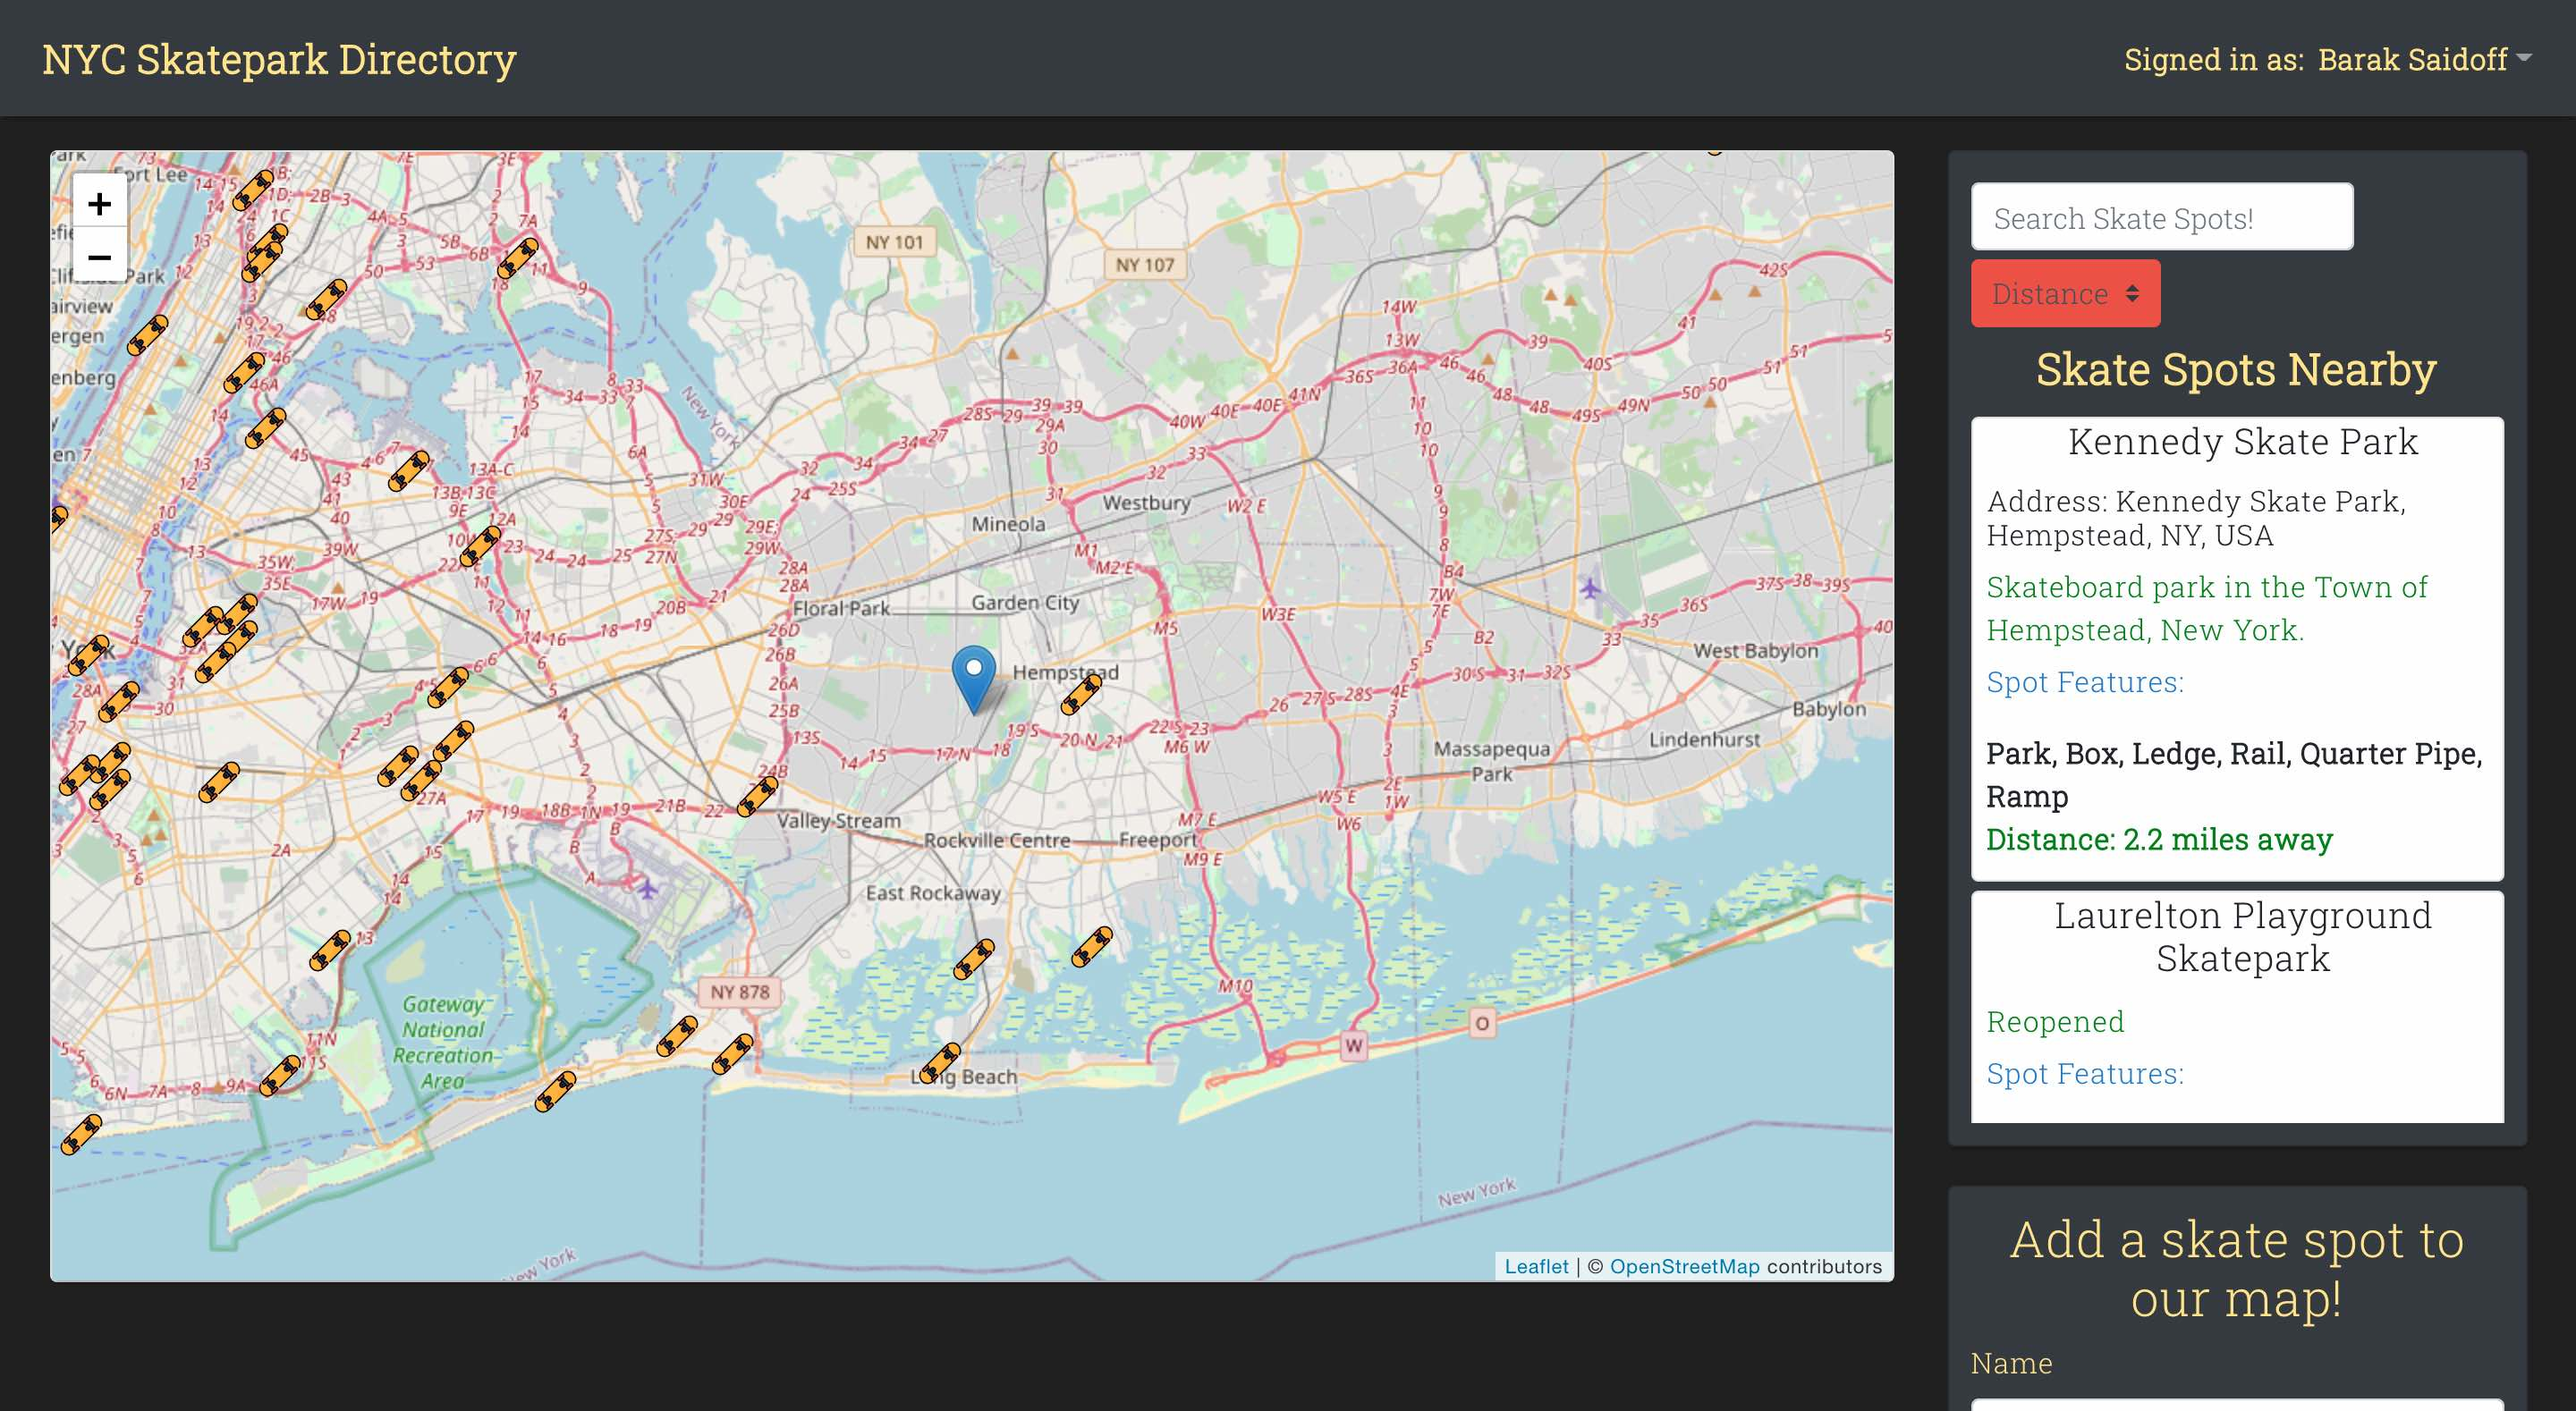
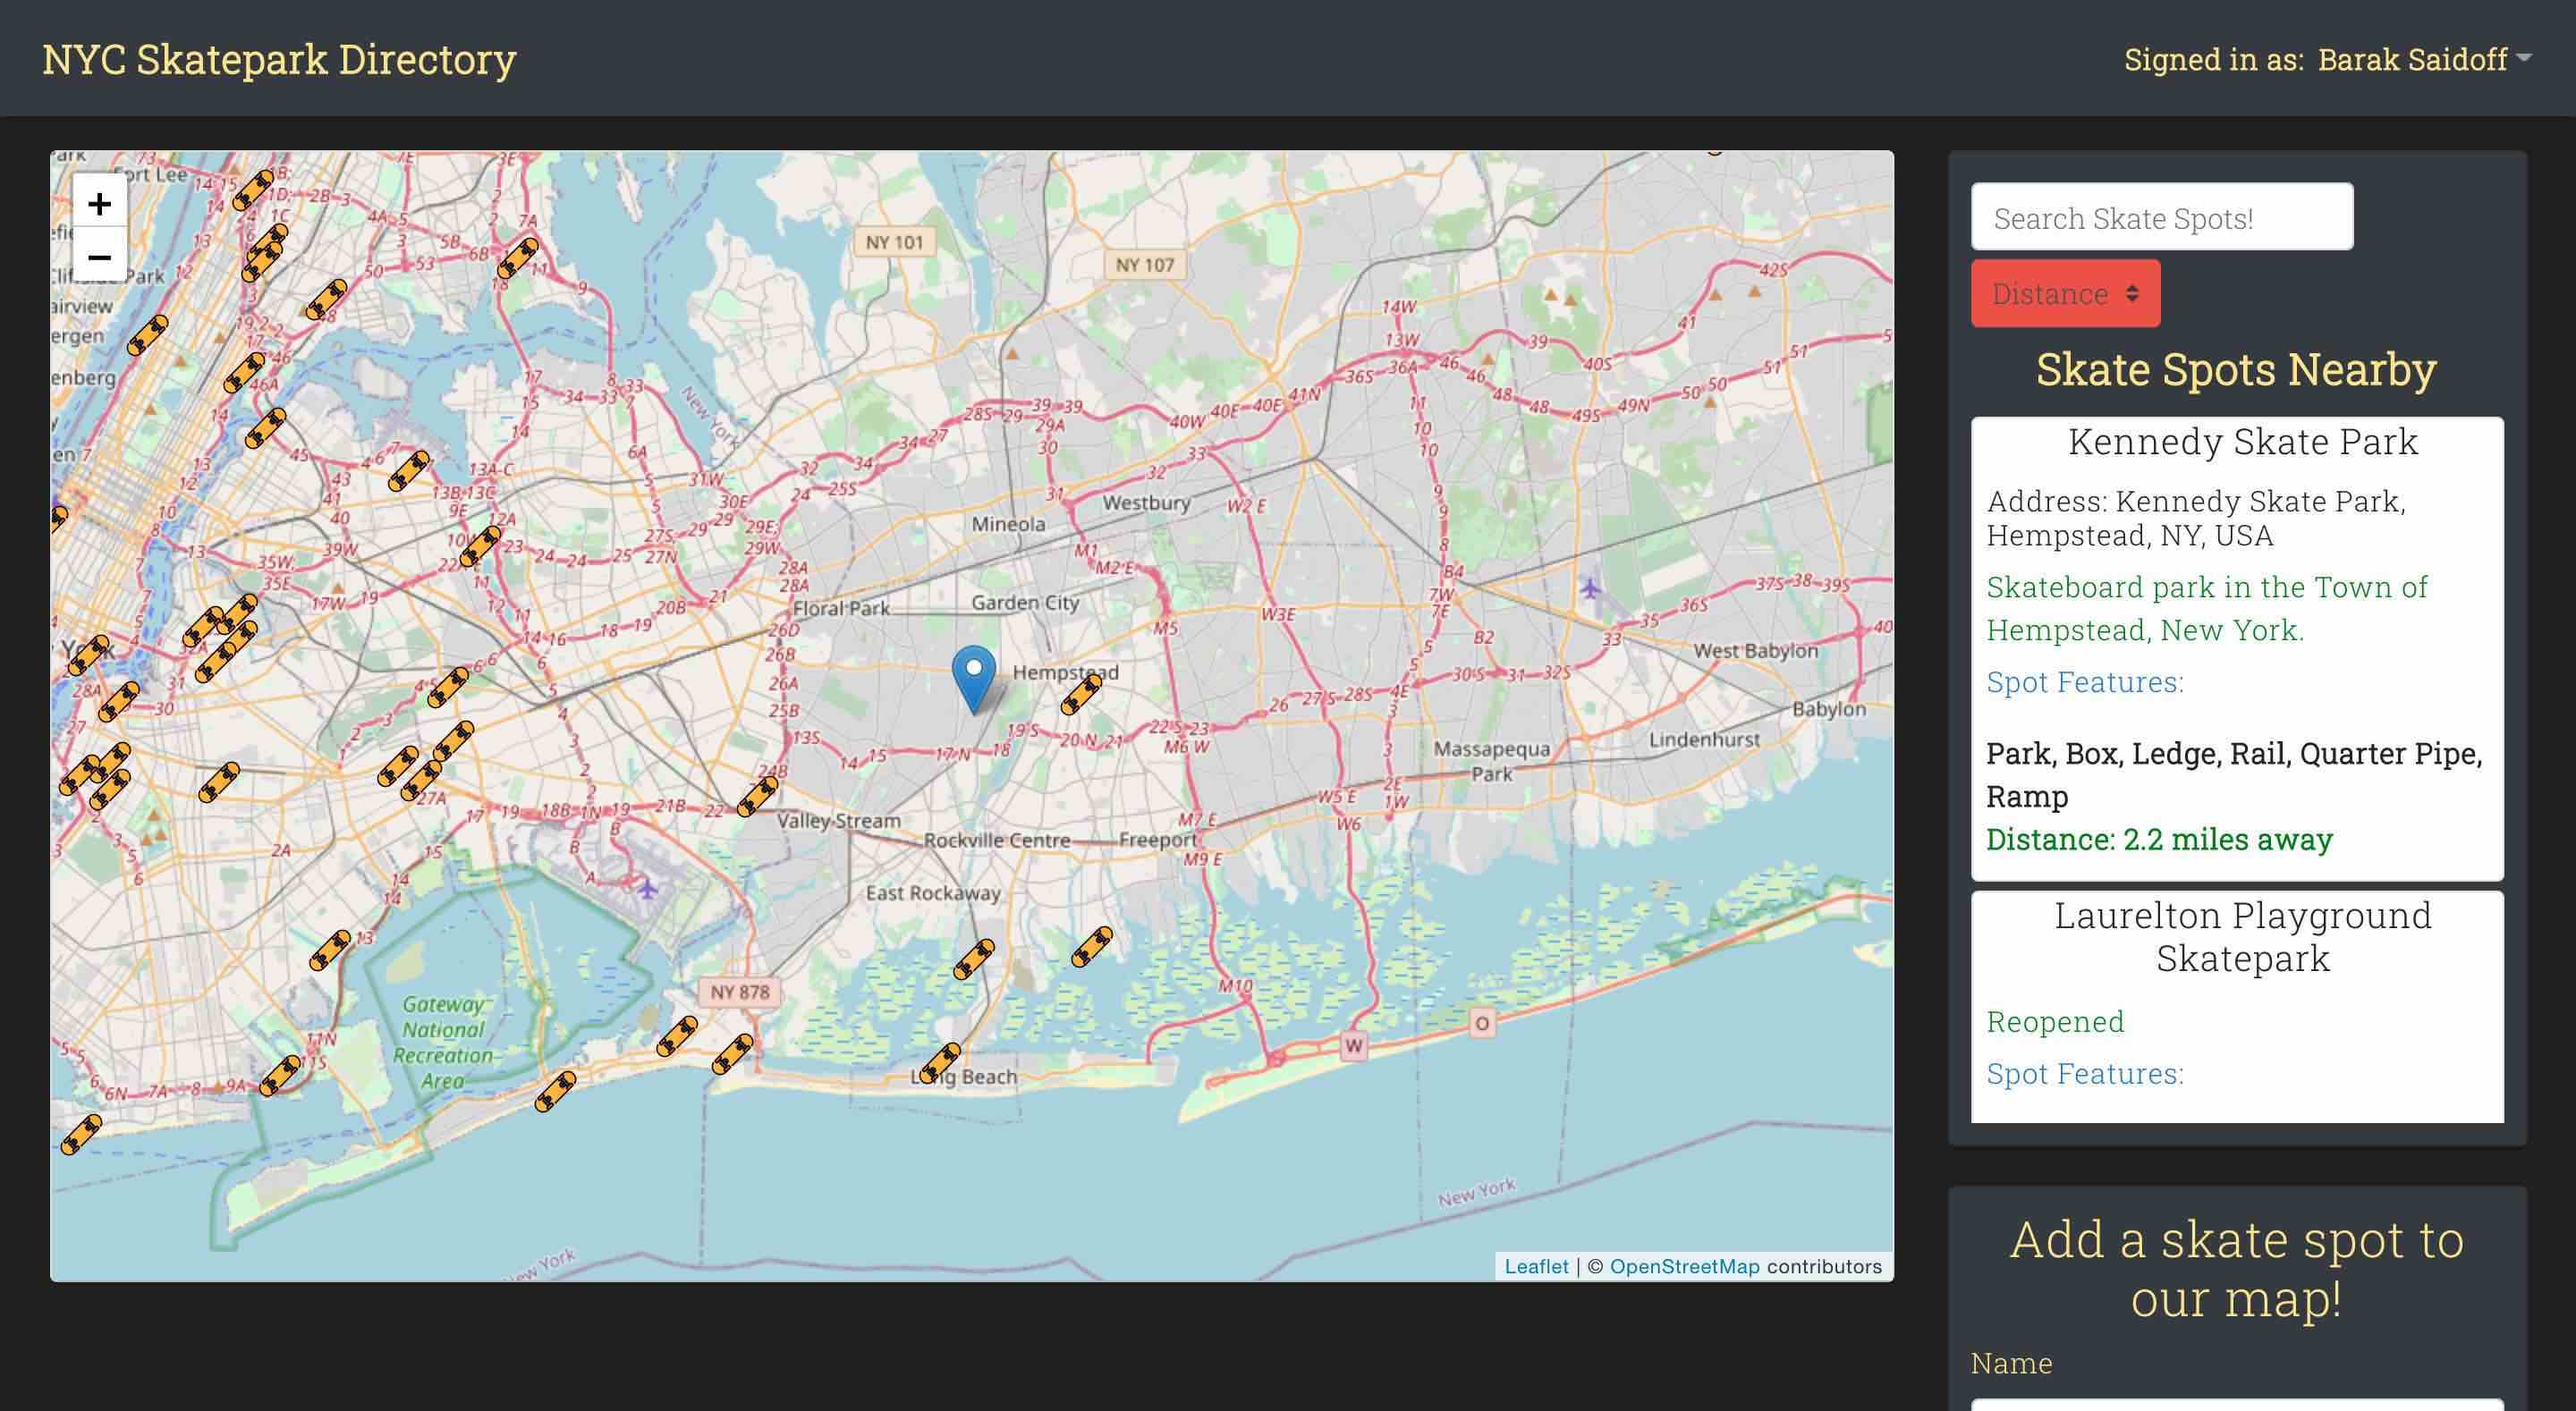
compress all project images

diff --git a/src/projects.js b/src/projects.js
@@ -12,22 +12,22 @@ export const projects = [
         "code": "https://github.com/Barak-S/Movies-App",
         "details": [ 
             {
-                "img": "./images/Movie1.png"
+                "img": "./images/Movie1.jpg"
             }, 
             {
-                "img": "./images/Movie3.png", 
+                "img": "./images/Movie3.jpg", 
             }, 
             { 
-                "img": "./images/Movie2.png",
+                "img": "./images/Movie2.jpg",
             },
             { 
-                "img": "./images/Movie6.png",
+                "img": "./images/Movie6.jpg",
             },
             { 
-                "img": "./images/Movie4.png",
+                "img": "./images/Movie4.jpg",
             },
             { 
-                "img": "./images/Movie5.png",
+                "img": "./images/Movie5.jpg",
             },
         ]
     }, 
@@ -68,19 +68,19 @@ export const projects = [
         "live": "https://snco-calculator.vercel.app/",
         "details": [ 
             {
-                "img": "./images/AllLoans2.png", 
+                "img": "./images/Calculator1.jpg", 
             }, 
             {
-                "img": "./images/MaxRefi2.png", 
+                "img": "./images/Calculator2.jpg", 
             }, 
             { 
-                "img": "./images/Fix&Flip2.png",
+                "img": "./images/Calculator3.jpg",
             },
             {
-                "img": "./images/LoanShow2.png"
+                "img": "./images/Calculator4.jpg"
             },
             {
-                "img": "./images/LoanEdit2.png"
+                "img": "./images/Calculator5.jpg"
             }
         ]
     },
@@ -121,10 +121,10 @@ export const projects = [
         "live": "https://covid-19-ui.now.sh/",
         "details": [ 
             {
-                "img": "./images/Covid1.png", 
+                "img": "./images/Covid1.jpg", 
             }, 
             { 
-                "img": "./images/Covid3.png",
+                "img": "./images/Covid2.jpg",
             },
         ]
     },
